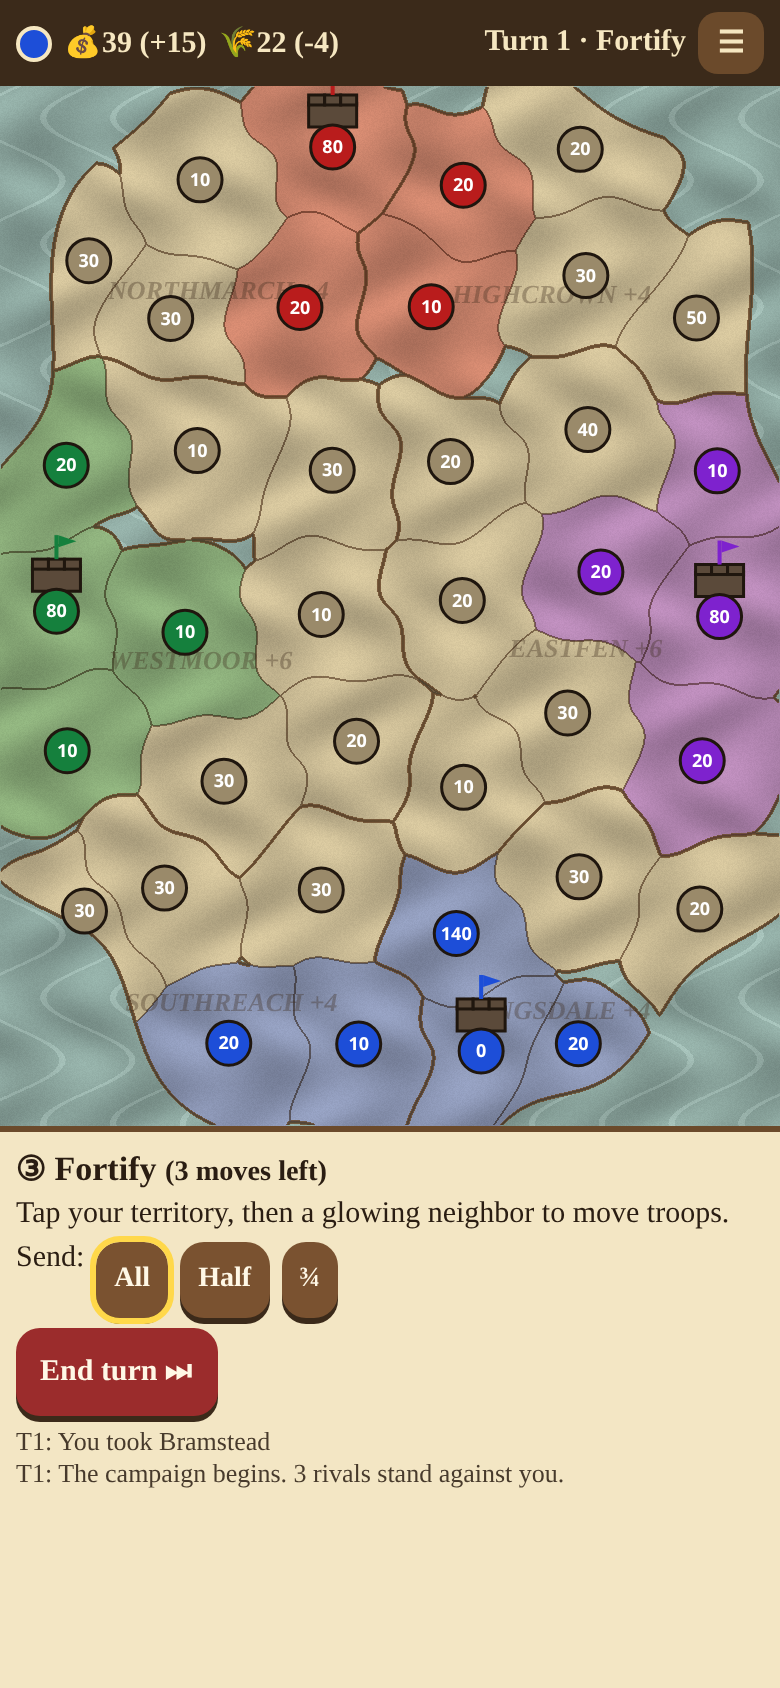
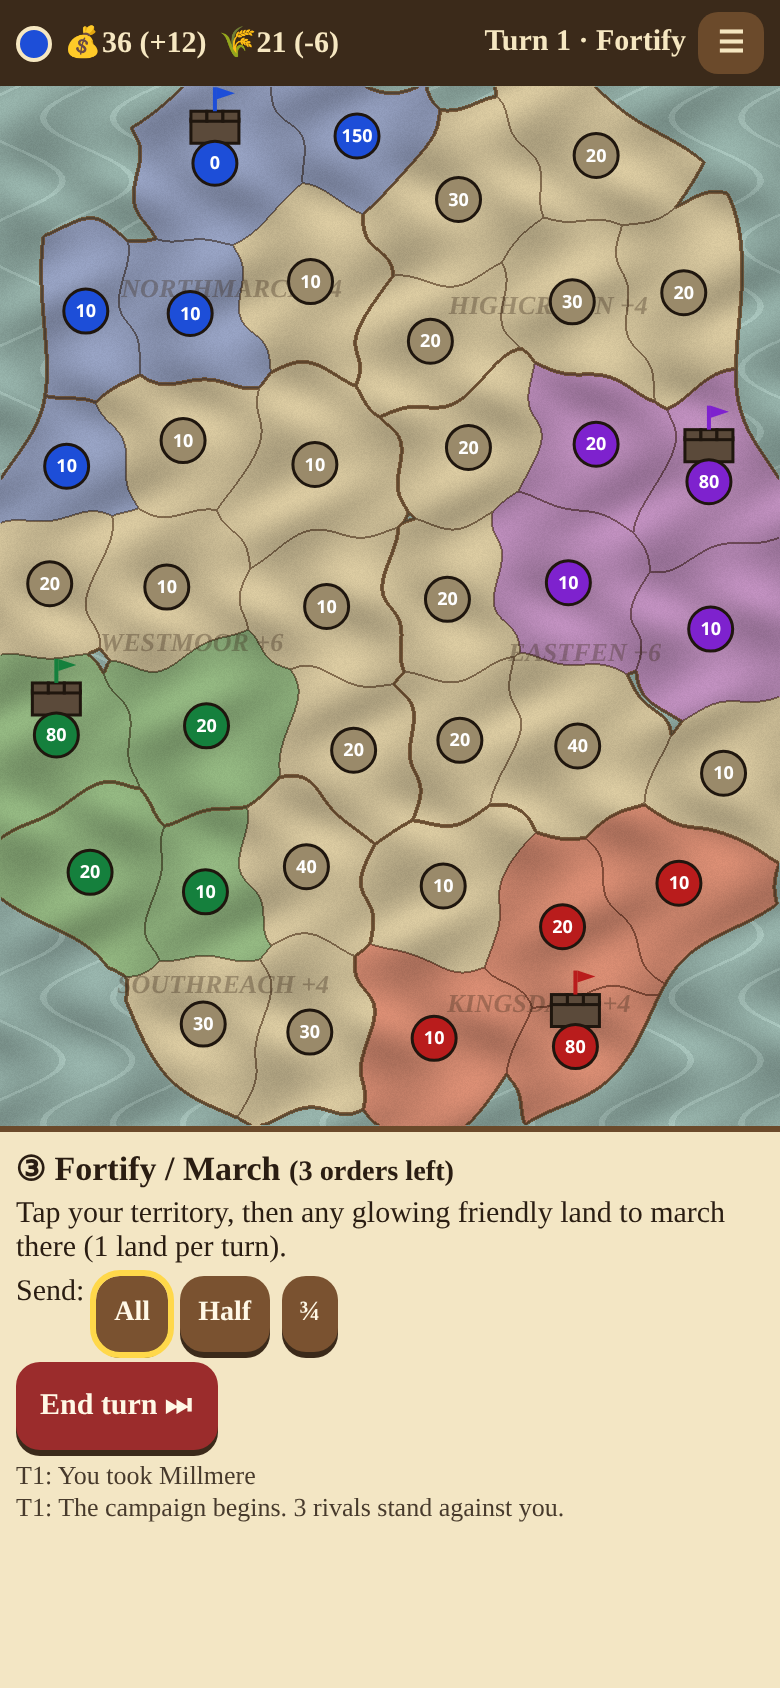
One-tile-per-turn movement: marching columns, ETA, interception, cavalry 2/turn

diff --git a/game.js b/game.js
@@ -79,7 +79,7 @@ function newGame(nAI,seed){
  seed=seed||Math.floor(Math.random()*1e9);R=rng(seed+7);
  MAP=genMap(seed);const T=MAP.T,np=nAI+1;
  const pers=[];for(let i=0;i<nAI;i++)pers.push(PERS[i%3]);pers.sort(()=>R()-.5);
- G={v:1,seed,turn:1,cur:0,phase:"recruit",econDone:false,moves:0,log:[],over:false,
+ G={v:1,seed,turn:1,cur:0,phase:"recruit",econDone:false,moves:0,log:[],over:false,marches:[],tired:[],
   players:Array.from({length:np},(_,i)=>({id:i,name:PNAMES[i],color:COLORS[i],ai:i>0,pers:i?pers[i-1]:"",gold:40,food:20,alive:true})),
   terrs:T.map((t,k)=>({owner:-1,army:army0(),gold:1+Math.floor(R()*3),food:1+Math.floor(R()*3),cap:-1}))};
  // capitals: farthest point sampling
@@ -112,16 +112,35 @@ function econ(pi){
  gold+=regs.reduce((s,g)=>s+g.bonus,0);
  const hasCap=G.terrs.some(t=>t.cap==pi&&t.owner==pi);
  if(!hasCap){gold=Math.floor(gold*.4);food=Math.floor(food*.7)}
- const up=Math.ceil(own.reduce((s,t)=>s+TYPES.reduce((q,k)=>q+t.army[k]*UT[k].food,0),0)/10);
+ const eat=a=>TYPES.reduce((q,k)=>q+a[k]*UT[k].food,0);const up=Math.ceil((own.reduce((s,t)=>s+eat(t.army),0)+(G.marches||[]).filter(m=>m.o==pi).reduce((s,m)=>s+eat(m.army),0))/10);
  return{gold,food,up,net:food-up,regs,hasCap};
 }
 function applyEcon(pi){
  const p=P(pi),e=econ(pi);p.gold+=e.gold;p.food+=e.net;let msg="";
  if(p.food<0){const frac=Math.min(.5,(-p.food)/Math.max(1,e.up)+.1);let lost=0;
-  G.terrs.forEach(t=>{if(t.owner!=pi)return;TYPES.forEach(k=>{const d=Math.ceil(t.army[k]*frac/10)*10;const dd=Math.min(t.army[k],d);t.army[k]-=dd;lost+=dd})});
+  [...G.terrs.filter(t=>t.owner==pi),...G.marches.filter(m=>m.o==pi).map(m=>({army:m.army}))].forEach(t=>{TYPES.forEach(k=>{const d=Math.ceil(t.army[k]*frac/10)*10;const dd=Math.min(t.army[k],d);t.army[k]-=dd;lost+=dd})});
   p.food=0;msg="Starvation! "+lost+" men deserted.";log(p.name+": "+msg)}
  p.food=Math.min(p.food,60);return msg;
 }
+
+// ---------- MARCHES (one tile per turn) ----------
+const isCav=a=>men(a)>0&&TYPES.every(k=>k=="H"||!a[k]);
+const mSpeed=m=>isCav(m.army)?2:1;
+function friendlyPath(pi,a,b){const prev={};prev[a]=-1;const q=[a];while(q.length){const u=q.shift();if(u==b)break;MAP.T[u].adj.forEach(v=>{if(prev[v]===undefined&&G.terrs[v].owner==pi){prev[v]=u;q.push(v)}})}
+ if(prev[b]===undefined)return null;const p=[];for(let u=b;u!=-1;u=prev[u])p.unshift(u);return p}
+function reachable(pi,a){return G.terrs.map((t,k)=>k).filter(k=>k!=a&&G.terrs[k].owner==pi&&friendlyPath(pi,a,k))}
+function addArmy(t,a){TYPES.forEach(k=>t[k]+=a[k])}
+function stepMarch(m){const n=mSpeed(m);m.last=G.turn+":"+G.cur;
+ for(let i=0;i<n&&m.pos<m.path.length-1;i++){const nx=m.path[m.pos+1];
+  if(G.terrs[nx].owner!=m.o){m.stop=true;log(ownerName(m.o)+"'s march was cut off at "+MAP.T[m.path[m.pos]].name);break}
+  m.pos++}
+ if(m.stop||m.pos>=m.path.length-1){const t=G.terrs[m.path[m.pos]];if(t.owner==m.o)addArmy(t.army,m.army);if(!G.tired.includes(m.path[m.pos]))G.tired.push(m.path[m.pos]);m.done=true}
+ G.marches=G.marches.filter(x=>!x.done)}
+function orderMarch(pi,a,b,s){const path=friendlyPath(pi,a,b);if(!path)return null;TYPES.forEach(k=>G.terrs[a].army[k]-=s[k]);
+ const m={o:pi,army:s,path,pos:0};G.marches.push(m);stepMarch(m);return m}
+function advanceMarches(pi){G.marches.filter(m=>m.o==pi&&m.last!=G.turn+":"+G.cur).forEach(stepMarch)}
+const eta=m=>Math.ceil((m.path.length-1-m.pos)/mSpeed(m));
+const marchesAt=(k,o)=>G.marches.filter(m=>m.path[m.pos]==k&&(o==null||m.o==o));
 
 // ---------- MAP RENDER ----------
 const mc=$("mapC"),mx=mc.getContext("2d");let mapImg=null,sel=-1,tgt=[],pulse=0;
@@ -150,12 +169,19 @@ function drawMap(){
  // targets
  tgt.forEach(k=>{mx.strokeStyle="#ffd84a";mx.lineWidth=3+Math.sin(pulse)*1.5;mx.beginPath();mx.arc(T[k].cx,T[k].cy,17,0,7);mx.stroke();
   if(sel>=0){mx.strokeStyle="#ffd84a99";mx.lineWidth=2;mx.beginPath();mx.moveTo(T[sel].cx,T[sel].cy);mx.lineTo(T[k].cx,T[k].cy);mx.stroke()}});
+ G.marches.forEach(m=>{const pts=m.path.slice(m.pos).map(k=>[T[k].cx,T[k].cy]);if(pts.length<2)return;const c=ownerCol(m.o);
+  mx.strokeStyle=c;mx.lineWidth=3;mx.setLineDash([6,4]);mx.beginPath();pts.forEach(([x,y],i)=>i?mx.lineTo(x,y):mx.moveTo(x,y));mx.stroke();mx.setLineDash([]);
+  const[ax,ay]=pts[pts.length-2],[bx,by]=pts[pts.length-1],an=Math.atan2(by-ay,bx-ax),hx=bx-Math.cos(an)*14,hy=by-Math.sin(an)*14;
+  mx.fillStyle=c;mx.beginPath();mx.moveTo(hx,hy);mx.lineTo(hx-Math.cos(an-.5)*9,hy-Math.sin(an-.5)*9);mx.lineTo(hx-Math.cos(an+.5)*9,hy-Math.sin(an+.5)*9);mx.fill()});
  G.terrs.forEach((t,k)=>{const x=T[k].cx,y=T[k].cy;
   if(t.cap>=0)drawCastle(x,y-14,ownerCol(t.owner));
   mx.fillStyle=ownerCol(t.owner);mx.strokeStyle=k==sel?"#ffd84a":"#1f160e";mx.lineWidth=k==sel?3:1.5;
   mx.beginPath();mx.arc(x,y,11,0,7);mx.fill();mx.stroke();
   mx.fillStyle="#fff";mx.font="bold 9px system-ui";mx.textAlign="center";mx.textBaseline="middle";mx.fillText(fmt(men(t.army)),x,y+.5);
  });
+ const seen={};G.marches.forEach(m=>{const k=m.path[m.pos],j=seen[k]=(seen[k]||0)+1,x=T[k].cx+13,y=T[k].cy-8+12*(j-1);
+  mx.fillStyle="#fff8e6";mx.strokeStyle=ownerCol(m.o);mx.lineWidth=2;mx.beginPath();mx.rect(x-2,y-6,34,12);mx.fill();mx.stroke();
+  mx.fillStyle="#2a1d12";mx.font="bold 8px system-ui";mx.textAlign="left";mx.textBaseline="middle";mx.fillText((isCav(m.army)?"🐎":"🚶")+fmt(men(m.army))+" "+eta(m)+"⏳",x,y+.5)});
  mx.restore();
 }
 setInterval(()=>{if(tgt.length&&!$("app").classList.contains("hidden")){pulse+=.5;drawMap()}},120);
@@ -170,7 +196,7 @@ let busy=false,sendFrac=1;
 function topBar(){const p=P(0),e=econ(0);$("pSw").style.background=p.color;
  $("tGold").textContent="💰"+p.gold+" (+"+e.gold+")";$("tFood").textContent="🌾"+p.food+" ("+(e.net>=0?"+":"")+e.net+")";
  $("tTurn").textContent=G.cur==0?"Turn "+G.turn+" · "+({recruit:"Recruit",attack:"Attack",fortify:"Fortify"})[G.phase]:P(G.cur).name+"…";}
-function tInfo(k){const t=G.terrs[k],T=MAP.T[k];return `<b>${T.name}</b> <small>(${MAP.regions[T.region].name})</small> · <span style="color:${ownerCol(t.owner)}">${ownerName(t.owner)}</span>${t.cap>=0?" · 🏰 castle":""}<br>💰${t.gold} 🌾${t.food} · ${armyStr(t.army)}`}
+function tInfo(k){const t=G.terrs[k],T=MAP.T[k];return `<b>${T.name}</b> <small>(${MAP.regions[T.region].name})</small> · <span style="color:${ownerCol(t.owner)}">${ownerName(t.owner)}</span>${t.cap>=0?" · 🏰 castle":""}<br>💰${t.gold} 🌾${t.food} · ${armyStr(t.army)}${marchesAt(k).map(m=>`<br>🚩 Marching (${ownerName(m.o)}): ${armyStr(m.army)} → ${MAP.T[m.path[m.path.length-1]].name}, ${eta(m)} turn(s)`).join("")}`}
 const castles=pi=>G.terrs.map((t,k)=>t.owner==pi&&t.cap>=0?k:-1).filter(k=>k>=0);
 const recruitSpots=pi=>{const c=castles(pi);return c.length?c:G.terrs.map((t,k)=>t.owner==pi?k:-1).filter(k=>k>=0)};
 const costMult=pi=>castles(pi).length?1:1.5;
@@ -185,9 +211,9 @@ function panel(){
   TYPES.forEach(k=>{const c=Math.ceil(UT[k].cost*m);h+=`<button class="b sm" data-buy="${k}" ${P(0).gold<c?"disabled":""}>${UT[k].ic} +10 ${UT[k].n}<br><small>💰${c} · 🌾${UT[k].food}</small></button>`});
   h+=`</div><small>Tap a castle 🏰 on the map to hire there. Upkeep: each 10 men eat 🌾 per turn (cavalry 2). Starving armies desert!</small><div class="row"><button class="b g" id="nextB">Next: Attack ▶</button></div>`;
  }else if(ph=="attack"||ph=="fortify"){
-  h+=ph=="attack"?`<h3>② Attack</h3>`:`<h3>③ Fortify <small>(${3-G.moves} moves left)</small></h3>`;
+  h+=ph=="attack"?`<h3>② Attack</h3>`:`<h3>③ Fortify / March <small>(${3-G.moves} orders left)</small></h3>`;
   if(sel>=0)h+=`<div>${tInfo(sel)}</div>`;
-  h+=`<div>${sel<0?(ph=="attack"?"Tap one of your territories, then a glowing enemy to attack.":"Tap your territory, then a glowing neighbor to move troops."):tgt.length?"Now tap a glowing target.":"No targets from here."}</div>`;
+  h+=`<div>${sel<0?(ph=="attack"?"Tap one of your territories, then a glowing enemy to attack.":"Tap your territory, then any glowing friendly land to march there (1 land per turn)."):tgt.length?"Now tap a glowing target.":"No targets from here."}</div>`;
   h+=`<div class="row">Send: <button class="b sm ${sendFrac==1?"on":""}" data-f="1">All</button><button class="b sm ${sendFrac==.5?"on":""}" data-f=".5">Half</button><button class="b sm ${sendFrac==.75?"on":""}" data-f=".75">¾</button></div>`;
   h+=`<div class="row">${ph=="attack"?`<button class="b g" id="nextB">Next: Fortify ▶</button>`:`<button class="b r" id="endB">End turn ⏭</button>`}</div>`;
  }
@@ -202,13 +228,14 @@ function onTap(a){
  const t=G.terrs[a],ph=G.phase;
  if(ph=="recruit"){if(recruitSpots(0).includes(a))sel=a;else toast(MAP.T[a].name+": "+ownerName(t.owner)+" · "+armyStr(t.army));panel();return}
  if(sel>=0&&tgt.includes(a)){ph=="attack"?attackSheet(sel,a):doMove(sel,a);return}
- if(t.owner==0&&men(t.army)>0){sel=a;tgt=MAP.T[a].adj.filter(b=>ph=="attack"?G.terrs[b].owner!=0:G.terrs[b].owner==0);if(ph=="fortify"&&G.moves>=3)tgt=[]}
+ if(t.owner==0&&men(t.army)>0){sel=a;tgt=G.tired.includes(a)?[]:ph=="attack"?MAP.T[a].adj.filter(b=>G.terrs[b].owner!=0):reachable(0,a);if(ph=="fortify"&&G.moves>=3)tgt=[];if(G.tired.includes(a))toast("These troops already moved this turn")}
+ else if(t.owner==0){sel=a;tgt=[]}
  else{sel=-1;tgt=[];toast(MAP.T[a].name+" · "+ownerName(t.owner)+" · "+armyStr(t.army),2600)}
  panel();
 }
 function split(a,f){const s=army0();TYPES.forEach(k=>{s[k]=f>=1?a[k]:Math.round(a[k]*f/10)*10;if(f<1&&a[k]>0&&s[k]==0&&f>=.5)s[k]=Math.min(a[k],10)});return s}
-function doMove(a,b){const s=split(G.terrs[a].army,sendFrac);TYPES.forEach(k=>{G.terrs[a].army[k]-=s[k];G.terrs[b].army[k]+=s[k]});G.moves++;
- log("You moved "+men(s)+" men to "+MAP.T[b].name);sel=-1;tgt=[];save();panel()}
+function doMove(a,b){const s=split(G.terrs[a].army,sendFrac);if(!men(s))return;const m=orderMarch(0,a,b,s);G.moves++;
+ log("You sent "+men(s)+" men toward "+MAP.T[b].name+(m.done?" (arrived)":" · ETA "+eta(m)+" turn(s)"));sel=-1;tgt=[];save();panel()}
 function sheet(html){const m=document.createElement("div");m.className="modal";m.innerHTML=`<div class="sheet">${html}</div>`;document.body.appendChild(m);return m}
 function attackSheet(a,b){
  const s=split(G.terrs[a].army,sendFrac),d=G.terrs[b];
@@ -225,11 +252,12 @@ function attackSheet(a,b){
 async function attack(pi,a,b,s,mode){
  const src=G.terrs[a],dst=G.terrs[b],def=dst.owner;
  TYPES.forEach(k=>src.army[k]-=s[k]);
+ if(def>=0){marchesAt(b,def).forEach(m=>{addArmy(dst.army,m.army);m.done=true;log(ownerName(def)+"'s marching column at "+MAP.T[b].name+" joins the fight")});G.marches=G.marches.filter(x=>!x.done)}
  let won,att,dfs;
  if(men(dst.army)==0){won=true;att=s;dfs=army0()}
  else{const Bt=await battle({att:{o:pi,a:s},def:{o:def,a:dst.army},walls:dst.cap>=0,mode,name:MAP.T[b].name});won=Bt.winner==Bt.attSide;att=Bt.surv[Bt.attSide];dfs=Bt.surv[1-Bt.attSide]}
  const nm=MAP.T[b].name;
- if(won){dst.army=att;dst.owner=pi;
+ if(won){dst.army=att;dst.owner=pi;G.tired.push(b);
   let msg=P(pi).name+" took "+nm+(def>=0?" from "+ownerName(def):"");
   if(dst.cap>=0&&def>=0){const loot=Math.floor(P(def).gold/2);P(def).gold-=loot;P(pi).gold+=loot;msg+=" 🏰 and looted 💰"+loot;if(def==0||pi==0)toast("🏰 Castle "+nm+" fell! 💰"+loot+" looted",3000)}
   log(msg);
@@ -251,12 +279,13 @@ function endScreen(win){localStorage.removeItem("dod_save");
 async function startTurn(){
  const p=P(G.cur);
  if(!p.alive){return nextPlayer()}
+ if(!G.econDone){G.tired=[];G.marches=G.marches||[]}
  if(!G.econDone){const msg=applyEcon(G.cur);G.econDone=true;if(msg&&G.cur==0)toast("🌾 "+msg,3000)}
  save();
- if(p.ai){panel();await sleep(250);await aiTurn(G.cur);if(G.over)return;nextPlayer()}
+ if(p.ai){panel();await sleep(250);await aiTurn(G.cur);if(G.over)return;advanceMarches(G.cur);nextPlayer()}
  else{G.phase=G.phase||"recruit";sel=-1;tgt=[];panel()}
 }
-function endTurn(){G.phase="recruit";nextPlayer()}
+function endTurn(){advanceMarches(0);G.phase="recruit";nextPlayer()}
 function nextPlayer(){if(G.over)return;G.cur=(G.cur+1)%G.players.length;if(G.cur==0)G.turn++;G.econDone=false;G.phase="recruit";G.moves=0;save();startTurn()}
 
 // ---------- AI ----------
@@ -276,7 +305,7 @@ async function aiTurn(pi){
  const maxA={aggressive:4,turtle:1,opportunist:3}[pers],thr={aggressive:1.25,turtle:2.2,opportunist:1.6}[pers];
  const leader=G.players.filter(q=>q.alive&&q.id!=pi).sort((x,y)=>G.terrs.filter(t=>t.owner==y.id).length-G.terrs.filter(t=>t.owner==x.id).length)[0];
  for(let n=0;n<maxA;n++){let best=null,bs=0;
-  G.terrs.forEach((t,a)=>{if(t.owner!=pi||men(t.army)<20)return;const send=split(t.army,pers=="aggressive"?.85:.7);
+  G.terrs.forEach((t,a)=>{if(t.owner!=pi||men(t.army)<20||G.tired.includes(a))return;const send=split(t.army,pers=="aggressive"?.85:.7);
    T[a].adj.forEach(b=>{const d=G.terrs[b];if(d.owner==pi)return;let r=pow(send)/(pow(d.army)*(d.cap>=0?1.5:1)+1);if(r<thr)return;
     let sc=r+d.gold*.3+(d.cap>=0?2:0);if(pers=="opportunist"&&d.owner>=0&&G.terrs.filter(q=>q.owner==d.owner).length<4)sc+=2;
     if(pers=="aggressive"&&leader&&d.owner==leader.id)sc+=1.5;if(d.owner<0)sc+=pers=="turtle"?1:.3;
@@ -290,8 +319,8 @@ async function aiTurn(pi){
  const dist=G.terrs.map(()=>99);const q=[];G.terrs.forEach((t,k)=>{if(t.owner==pi&&enemyAdj(k).length){dist[k]=0;q.push(k)}});
  while(q.length){const u=q.shift();T[u].adj.forEach(v=>{if(G.terrs[v].owner==pi&&dist[v]>dist[u]+1){dist[v]=dist[u]+1;q.push(v)}})}
  let mv=0;G.terrs.forEach((t,k)=>{if(mv>=3||t.owner!=pi||dist[k]==0||dist[k]==99||men(t.army)==0)return;
-  const nb=T[k].adj.filter(v=>G.terrs[v].owner==pi&&dist[v]<dist[k])[0];if(nb==null)return;const keep=t.cap>=0?(pers=="turtle"?.5:.25):0;
-  const s=split(t.army,1-keep);TYPES.forEach(x=>{t.army[x]-=s[x];G.terrs[nb].army[x]+=s[x]});mv++});
+  if(G.tired.includes(k))return;let dest=-1,bd=99;G.terrs.forEach((u,j)=>{if(u.owner==pi&&dist[j]==0){const p=friendlyPath(pi,k,j);if(p&&p.length<bd){bd=p.length;dest=j}}});if(dest<0)return;
+  const keep=t.cap>=0?(pers=="turtle"?.5:.25):0;const s=split(t.army,1-keep);if(!men(s))return;orderMarch(pi,k,dest,s);window.__aiMarched=(window.__aiMarched||0)+1;mv++});
  save();
 }
 function defendPrompt(pi,a,b,send){return new Promise(res=>{const d=G.terrs[b];
@@ -499,7 +528,8 @@ function startUI(){const rv=$("rivals");rv.innerHTML=[2,3,4,5].map(n=>`<button c
 $("newB").onclick=()=>{$("start").classList.add("hidden");newGame(nAI);sizeMap();renderMapBase();panel()};
 $("resB").onclick=()=>{try{G=JSON.parse(localStorage.dod_save);MAP=genMap(G.seed);$("start").classList.add("hidden");sizeMap();renderMapBase();
  if(G.cur!=0){G.econDone=true;startTurn()}else panel()}catch(e){toast("Save could not be loaded");}};
-$("helpB").onclick=()=>{const m=sheet(`<h2>📜 How to play</h2><p><b>Each turn:</b> ① Recruit at your castles 🏰 with gold, ② Attack neighbors, ③ Fortify (3 moves), then rivals move.</p>
+$("helpB").onclick=()=>{const m=sheet(`<h2>📜 How to play</h2><p><b>Each turn:</b> ① Recruit at your castles 🏰 with gold, ② Attack neighbors, ③ Fortify / March (3 orders), then rivals move.</p>
+<p><b>Movement:</b> armies move <b>one territory per turn</b> 🚶 (cavalry-only columns 🐎 move 2). Ordering troops to a distant friendly land creates a marching column (dashed arrow + ⏳ turns left); it takes its first step at once, then one step each time you end your turn. You can only attack lands next to where troops stand, so new recruits must march to the front. Troops that conquered or arrived this turn rest until next turn. If an enemy takes a land on the path, the column halts; if an enemy attacks the land a column is on, it joins the defense.</p>
 <p><b>Economy:</b> territories give 💰 gold and 🌾 food. Owning a whole region adds its bonus. Every 10 men eat 🌾1 per turn (cavalry 2). If food runs out, men desert. Lose your home castle and income drops sharply; capture a rival castle to loot half their treasury and recruit there.</p>
 <p><b>Battles:</b> place groups in your zone, pick formations and orders, then Fight. ${TYPES.map(k=>UT[k].ic+" "+UT[k].n).join(", ")}.</p>
 <p>🛡 Scutum shields stop most arrows. 🔱 Pikes wreck cavalry from the front. 🐎 Cavalry charge hard and love flanks. 🎯 Longbows outrange short bows; 🏹 short bows shoot faster. Hits on the side ×1.5, rear ×2.2, and shatter morale. Broken groups rout 🏳.</p>

diff --git a/index.html b/index.html
@@ -57,8 +57,8 @@ table{border-collapse:collapse;font-size:14px}td,th{padding:3px 6px;text-align:l
  <div id="installHelp" class="hidden" style="background:#fff8e6;padding:10px;border-radius:12px">Tap Chrome's <b>⋮</b> menu → <b>Install app</b> / <b>Add to Home screen</b><br><small>(iPhone: Share ⬆ → Add to Home Screen)</small><br><button class="b sm" id="helpOk">OK</button></div>
 </div>
 <div id="toast" style="opacity:0"></div>
-<script src="game.js?v=1"></script>
-<script>if('serviceWorker'in navigator&&location.protocol!=='file:')navigator.serviceWorker.register('sw.js?v=1');
+<script src="game.js?v=2"></script>
+<script>if('serviceWorker'in navigator&&location.protocol!=='file:')navigator.serviceWorker.register('sw.js?v=2');
 let deferredPrompt=null;const ib=document.getElementById("installBtn"),hp=document.getElementById("installHelp");
 const standalone=()=>matchMedia("(display-mode: standalone)").matches||matchMedia("(display-mode: fullscreen)").matches||navigator.standalone;
 if(standalone())ib.classList.add("hidden");

diff --git a/sw.js b/sw.js
@@ -1,6 +1,6 @@
 // Network-first service worker, versioned cache; falls back to cache offline.
-const VER="1",CACHE="dod-v"+VER;
-const SHELL=["./","index.html","game.js?v=1","manifest.webmanifest","icons/icon-192.png","icons/icon-512.png","icons/maskable-512.png"];
+const VER="2",CACHE="dod-v"+VER;
+const SHELL=["./","index.html","game.js?v=2","manifest.webmanifest","icons/icon-192.png","icons/icon-512.png","icons/maskable-512.png"];
 self.addEventListener("install",e=>{e.waitUntil(caches.open(CACHE).then(c=>c.addAll(SHELL.map(u=>new Request(u,{cache:"reload"})))).then(()=>self.skipWaiting()))});
 self.addEventListener("activate",e=>{e.waitUntil(caches.keys().then(ks=>Promise.all(ks.filter(k=>k.startsWith("dod-")&&k!==CACHE).map(k=>caches.delete(k)))).then(()=>self.clients.claim()))});
 self.addEventListener("fetch",e=>{const r=e.request;if(r.method!=="GET"||new URL(r.url).origin!==location.origin)return;

diff --git a/test.py b/test.py
@@ -63,9 +63,67 @@ with sync_playwright() as p:
    const g0=G.players[0].gold;const src=T[c].adj[0];G.terrs[src].owner=0;G.terrs[src].army={P:0,S:0,C:200,K:0,H:100,B:0,L:0};
    const w=await __dod.attack(0,src,c,{P:0,S:0,C:200,K:0,H:100,B:0,L:0},'auto');return[w,G.players[0].gold-g0,G.players[1].gold,__dod.econ(1).hasCap]})()""")
   ok("capture capital loots treasury %s"%r,r[0] and r[1]==50 and r[2]==50 and r[3]==False)
+
+  # ===== marching (fresh game, rivals paused so the scenario is deterministic) =====
+  E("localStorage.clear()");pg.reload();pg.wait_for_timeout(400);pg.click("#newB");pg.wait_for_timeout(500)
+  E("window.__fast=1;__dod.G.players.forEach(p=>{if(p.ai)p.alive=false})")
+  setup=E("""(()=>{const G=__dod.G,T=__dod.MAP.T;G.marches=[];G.tired=[];const bfs=c=>{const d=T.map(()=>-1);d[c]=0;const q=[c],pr={};while(q.length){const u=q.shift();T[u].adj.forEach(v=>{if(d[v]<0){d[v]=d[u]+1;pr[v]=u;q.push(v)}})}return[d,pr]};
+   let c=G.terrs.findIndex(t=>t.cap==0);if(Math.max(...bfs(c)[0])<4)c=T.findIndex((t,k)=>Math.max(...bfs(k)[0])>=4);G.terrs[c].owner=0;const[d,pr]=bfs(c);
+   const far=d.findIndex(x=>x==4)>=0?d.findIndex(x=>x==4):d.findIndex(x=>x==Math.max(...d));const path=[];for(let u=far;u!=c;u=pr[u])path.unshift(u);path.forEach(k=>{G.terrs[k].owner=0;G.terrs[k].army={P:0,S:0,C:0,K:0,H:0,B:0,L:0}});
+   G.terrs[c].army={P:40,S:0,C:30,K:0,H:30,B:20,L:0};G.cur=0;G.phase='fortify';G.moves=0;__dod.panel();return [c,path]})()""")
+  c,path=setup
+  tap(c);pg.wait_for_timeout(200);ok("distant friendly tile is a march target",E(f"tgt.includes({path[-1]})"))
+  tap(path[-1]);pg.wait_for_timeout(300)
+  m=E("__dod.G.marches.map(m=>({pos:m.pos,len:m.path.length,eta:Math.ceil((m.path.length-1-m.pos)/1)}))")
+  ok("march created, moved 1 tile, ETA 3 %s"%m,len(m)==1 and m[0]["pos"]==1 and m[0]["eta"]==3)
+  ok("troops left the castle",E(f"Object.values(__dod.G.terrs[{c}].army).every(x=>x==0)"))
+  tap(path[0]);pg.wait_for_timeout(200);ok("info shows marching column",("Marching" in pg.inner_text("#panel")))
+  ok("marching troops cannot attack (not a garrison)",E(f"(()=>{{const G=__dod.G;return Object.values(G.terrs[{path[0]}].army).every(x=>x==0)}})()"))
+  pg.screenshot(path="screenshots/11-march-arrow-eta.png")
+  # cavalry-only march moves 2
+  E(f"(()=>{{const G=__dod.G;G.terrs[{path[0]}].army.H=0;}})()")
+  r=E(f"""(()=>{{const G=__dod.G;const T=__dod.MAP.T;G.terrs[{c}].army.H=30;return 0}})()""")
+  E("__dod.G.moves=0;sendFrac=1");tap(c);pg.wait_for_timeout(100);tap(path[-1]);pg.wait_for_timeout(200)
+  ok("cavalry-only column moves 2 tiles/turn",E("__dod.G.marches.some(m=>m.army.H==30&&Object.values(m.army).reduce((a,b)=>a+b)==30&&m.pos==2)"))
+  # interception: enemy takes path[2] -> foot column stops at path[1]
+  E(f"__dod.G.terrs[{path[3]}].owner=1")
+  ok("columns ordered this turn don't step again at end of turn",True)
+  pg.click("#endB");pg.wait_for_timeout(300);ok("same-turn orders held",E("__dod.G.marches.length")==2);pg.click("#nextB");pg.click("#nextB");pg.click("#endB")
+  for i in range(80):
+    if pg.is_visible("#dAuto"):pg.click("#dAuto")
+    if E("__dod.G.cur")==0:break
+    pg.wait_for_timeout(200)
+  ok("intercepted cavalry halted at path[2] and joined garrison",E("!__dod.G.marches.some(m=>m.army.H&&!m.army.P)") and (E(f"__dod.G.terrs[{path[2]}].army.H")>=30 or E(f"__dod.G.terrs[{path[2]}].owner")!=0))
+  ok("cut-off logged",any("cut off" in x for x in E("__dod.G.log")))
+  ok("end turn advanced the foot column",E("__dod.G.turn")==3 and E("__dod.G.marches.some(m=>m.army.P==40&&m.pos==2)"))
+  E("__dod.G.players.forEach(p=>{if(p.ai)p.alive=true})")
+  # enemy attacks a tile holding a marching column -> it fights
+  r=E(f"""(async()=>{{const G=__dod.G,T=__dod.MAP.T;G.marches=[];const k={path[1]};G.terrs[k].owner=0;G.terrs[k].army={{P:0,S:0,C:0,K:0,H:0,B:0,L:0}};
+    const nxt={path[2]};G.terrs[nxt].owner=0;
+    G.marches.push({{o:0,army:{{P:0,S:0,C:200,K:0,H:0,B:0,L:0}},path:[k,nxt],pos:0,last:'x'}});
+    const src=T[k].adj.find(v=>v!={path[0]}&&v!=nxt);G.terrs[src].owner=1;G.terrs[src].army={{P:20,S:0,C:0,K:0,H:0,B:0,L:0}};
+    const w=await __dod.attack(1,src,k,{{P:20,S:0,C:0,K:0,H:0,B:0,L:0}},'auto');return [w,G.terrs[k].owner,G.marches.length,G.terrs[k].army.C]}})()""")
+  ok("marching column defends its tile %s"%r,r[0]==False and r[1]==0 and r[2]==0 and r[3]>0)
+  # conquerors are tired
+  r=E("""(async()=>{const G=__dod.G,T=__dod.MAP.T;G.tired=[];const a=G.terrs.findIndex(t=>t.owner==0);const b=T[a].adj.find(v=>G.terrs[v].owner!=0);G.terrs[b].army={P:0,S:0,C:0,K:0,H:0,B:0,L:0};G.terrs[a].army.C+=50;
+   await __dod.attack(0,a,b,{P:0,S:0,C:50,K:0,H:0,B:0,L:0},'auto');return G.tired.includes(b)})()""")
+  ok("conquering troops rest until next turn",r)
+  # AI uses marches
+  ai=E("""(()=>{const G=__dod.G;G.marches=[];for(let i=0;i<10;i++){}return true})()""")
+  for i in range(3):
+    pg.click("#nextB") if pg.is_visible("#nextB") else None
+    if pg.is_visible("#nextB"):pg.click("#nextB")
+    if pg.is_visible("#endB"):pg.click("#endB")
+    for j in range(80):
+      if pg.is_visible("#dAuto"):pg.click("#dAuto")
+      if pg.is_visible("#contB"):pg.click("#contB")
+      if E("__dod.G.cur")==0:break
+      pg.wait_for_timeout(150)
+  ok("AI issues marches too",E("__dod.G.marches.some(m=>m.o>0)") or any(("cut off" in x) for x in E("__dod.G.log")) or E("window.__aiMarched||0")>0)
+  pg.screenshot(path="screenshots/12-map-ai-marches.png")
   pg.wait_for_timeout(2500)
   # save/resume
-  pg.reload();pg.wait_for_timeout(500);ok("resume visible",pg.is_visible("#resB"));pg.click("#resB");pg.wait_for_timeout(500);ok("resumed",E("__dod.G.turn")==2)
+  pg.reload();pg.wait_for_timeout(500);ok("resume visible",pg.is_visible("#resB"));pg.click("#resB");pg.wait_for_timeout(500);ok("resumed",E("__dod.G.turn")>=2)
   # win
   E("__dod.G.terrs.forEach((t,k)=>{if(k>0){t.owner=0}});__dod.G.players.forEach(p=>{if(p.ai)p.alive=false});__dod.checkEnd()");pg.wait_for_timeout(300)
   ok("victory screen",pg.is_visible("#endM") and "Victory" in pg.inner_text("#endM"));pg.screenshot(path="screenshots/7-victory.png")
